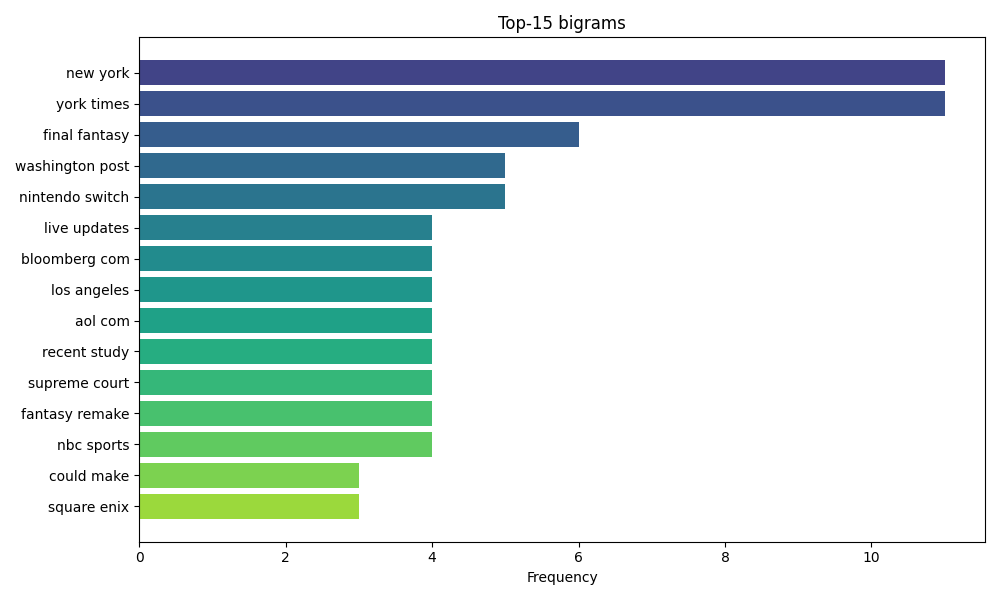
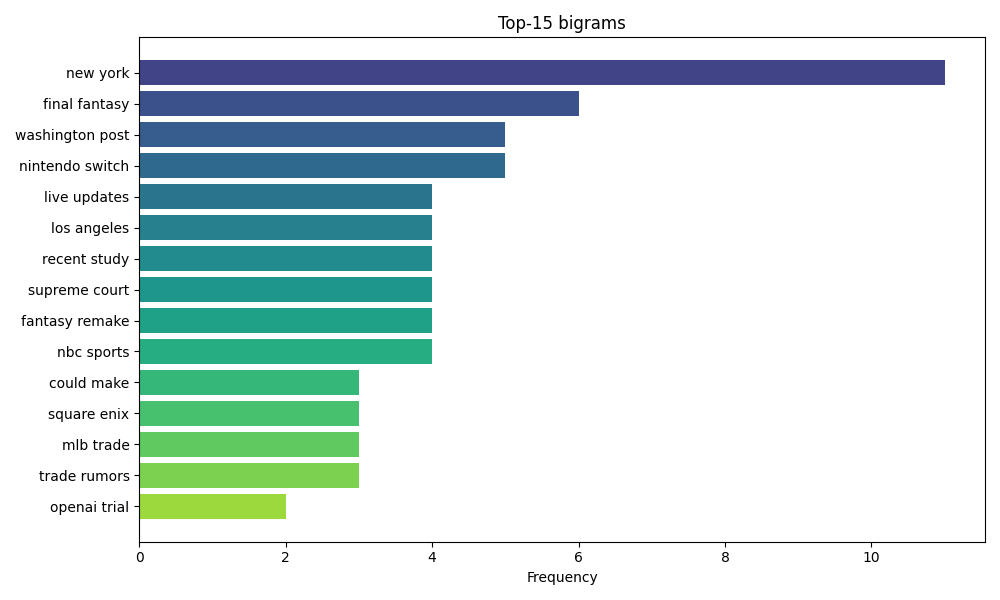
add unsupervised clustering

diff --git a/lab-4.py b/lab-4.py
@@ -2,6 +2,7 @@ import os
 import re
 import requests
 import json
+import math
 import spacy
 import numpy as np
 import matplotlib.pyplot as plt
@@ -9,10 +10,14 @@ from dotenv import load_dotenv
 from collections import Counter, defaultdict
 from nltk.tokenize import word_tokenize
 from nltk.corpus import stopwords
+from nltk.stem import WordNetLemmatizer
 from sklearn.feature_extraction.text import TfidfVectorizer
-from sklearn.cluster import KMeans
+from sklearn.cluster import KMeans, AgglomerativeClustering, DBSCAN
 from sklearn.metrics import silhouette_score, adjusted_rand_score, confusion_matrix
 from sklearn.metrics.pairwise import cosine_similarity
+from sklearn.decomposition import TruncatedSVD
+from sklearn.preprocessing import normalize
+from scipy.cluster.hierarchy import dendrogram, linkage
 
 SEP = "=" * 67
 
@@ -41,46 +46,65 @@ def main():
     print(f"\n{SEP}")
     print("level 1")
 
-    ctx = supervised_cluster(articles)
-    print(f"Silhouette score: {ctx["sil"]:.4f}")
-    print(f"Adjusted Rand Index: {ctx["ari"]:.4f}")
-    print(f"Mapping accuracy: {ctx["accuracy"]:.4f}")
+    sup_cl = supervised_cluster(articles)
+    print(f"Silhouette score: {sup_cl["silhouette"]:.4f}")
+    print(f"Adjusted Rand Index: {sup_cl["ARI"]:.4f}")
+    print(f"Mapping accuracy: {sup_cl["accuracy"]:.4f}")
 
     print("Per-class accuracy:")
     for i, dom in enumerate(DOMAIN_LABELS):
-        total = sum(1 for t in ctx["labels"] if t == i)
-        correct_i = sum(1 for p, t in zip(ctx["preds"], ctx["labels"]) if t==i and p==i)
+        total = sum(1 for t in sup_cl["labels"] if t == i)
+        correct_i = sum(1 for p, t in zip(sup_cl["preds"], sup_cl["labels"]) if t==i and p==i)
         pct = correct_i/total * 100 if total else 0
         bar = "=" * int(pct/10)
         print(f"{dom:<14} {pct:5.1f}% ({correct_i}/{total}) {bar}")
 
-    cm = confusion_matrix(ctx["labels"], ctx["preds"], labels=list(range(N_CLUSTERS)))
-    plot_confusion_matrix(cm, "./outputs/l4_cm.png")
+    cm = confusion_matrix(sup_cl["labels"], sup_cl["preds"], labels=list(range(N_CLUSTERS)))
+    plot_confusion_matrix(cm, "l4_cm.png")
 
     print("\nTop terms per cluster")
-    print(ctx["top_terms"])
+    print(sup_cl["top_terms"])
     
+
+
     print(f"\n{SEP}")
     print("level 2")
 
-    results = frequency_analysis(ctx)
+    freq = frequency_analysis(sup_cl)
     print("\nTF-IDF top terms:")
-    print(results["tfidf_by_category"])
+    print(freq["tfidf_by_category"])
 
-    plot_tfidf_bars(results["tfidf_by_category"], "./outputs/l4_tfidf.png")
+    plot_tfidf_bars(freq["tfidf_by_category"], "l4_tfidf.png")
 
-    for w, positions in results["dispersion_data"].items():
+    for w, positions in freq["dispersion_data"].items():
         print(f" {w:<10} - {len(positions):4d} positions")
 
-    plot_lexical_dispersion(results["dispersion_data"], results["top_terms"], len(ctx["article_items"]), "./outputs/l4_lexical_dispersion.png")
+    plot_lexical_dispersion(freq["dispersion_data"], freq["top_terms"], len(sup_cl["article_items"]), "l4_lexical_dispersion.png")
 
-    plot_word_length_dist(results["lengths"], "./outputs/l4_word_length_distribution.png")
+    plot_word_length_dist(freq["lengths"], "l4_word_length_distribution.png")
     
-    top_bigrams = results["bigrams"].most_common(20)
+    top_bigrams = freq["bigrams"].most_common(20)
     for bg, cnt in top_bigrams[:10]:
         print(f" {' '.join(bg):<28} {cnt:4d}")
 
-    plot_bigrams(top_bigrams, "./outputs/l4_bigrams.png")
+    plot_bigrams(top_bigrams, "l4_bigrams.png")
+
+
+    print(f"\n{SEP}")
+    print("level 3")
+
+    results = unsupervised_cluster(sup_cl)
+
+    print("KMeans")
+    print(f"Silhouette: {results["KMeans"]["silhouette"]:.4f}   ARI: {results["KMeans"]["ARI"]:.4f}")
+    
+    print("Agglomerative")
+    print(f"Silhouette: {results["Agglomerative"]["silhouette"]:.4f}   ARI: {results["Agglomerative"]["ARI"]:.4f}")
+
+    plot_dendrogram(results["Agglomerative"]["Z"], "l4_dendrogram.png")
+    
+    print("DBSCAN")
+    print(f"Silhouette: {results["DBSCAN"]["silhouette"]:.4f}   ARI: {results["DBSCAN"]["ARI"]:.4f}")
 
 
 def scrape_newsapi(api_key: str, per_category: int = 15):
@@ -173,9 +197,18 @@ def tokenize_text(text: str):
 
 
 STOP_WORDS = set(stopwords.words("english"))
+CUSTOM_STOP_WORDS = {"cnn", "char", "bbc", "news", "latest", "com", "new", "york", "times", "post"}
 
 def remove_stopwords(tokens):
-    return [t for t in tokens if t.isalpha() and t not in STOP_WORDS and len(t) > 2]
+    stop_words = STOP_WORDS.copy()
+    stop_words.update(CUSTOM_STOP_WORDS)
+    return [t for t in tokens if t.isalpha() and t not in stop_words and len(t) > 2]
+
+
+lemmatizer = WordNetLemmatizer()
+
+def lemmatize_text(tokens):
+    return [lemmatizer.lemmatize(t) for t in tokens]
 
 
 def preprocess(text: str):
@@ -183,7 +216,8 @@ def preprocess(text: str):
     text = normalize_text(text)
     tokens = tokenize_text(text)
     tokens = remove_stopwords(tokens)
-    return " ".join(tokens)
+    lemmas = lemmatize_text(tokens)
+    return " ".join(lemmas)
 
 
 def get_tokens(text: str):
@@ -270,8 +304,8 @@ def supervised_cluster(article_items: list[dict]):
             "texts_pp": texts_pp, 
             "texts_raw": text_raw, 
             "accuracy": acc, 
-            "sil": sil, 
-            "ari" : ari, 
+            "silhouette": sil, 
+            "ARI" : ari, 
             "top_terms": top_terms,
             "article_items": article_items}
 
@@ -319,7 +353,6 @@ def frequency_analysis(sup_cl):
             bigrams[(toks[i], toks[i+1])] += 1
     
 
-
     return {
         "tfidf_by_category": cat_tfidf_results,
         "dispersion_data" : disp_data,
@@ -330,14 +363,70 @@ def frequency_analysis(sup_cl):
     }
 
 
-def plot_confusion_matrix(cm, output_path):
+def unsupervised_cluster(sup_cl: dict):
+    X = sup_cl["X"]
+    y_true = sup_cl["labels"]
+    tfidf = sup_cl["tfidf"]
+    texts = sup_cl["texts_pp"]
+
+    km_u = KMeans(n_clusters=N_CLUSTERS, n_init=15, max_iter=500, random_state=RANDOM_STATE)
+    km_u.fit(X)
+    km_labels = km_u.labels_
+    sil_km = silhouette_score(X, km_labels, metric="cosine")
+    ari_km = adjusted_rand_score(y_true, km_labels)
+
+    fn = tfidf.get_feature_names_out()
+    km_cluster_terms = {}
+    for c in range(N_CLUSTERS):
+        order = km_u.cluster_centers_[c].argsort()[::-1][:6]
+        terms = [fn[i] for i in order]
+        km_cluster_terms[c] = terms
+
+
+    svd = TruncatedSVD(n_components=50, random_state=RANDOM_STATE)
+    X_r = svd.fit_transform(X)
+    X_rn = normalize(X_r)
+
+    agg = AgglomerativeClustering(n_clusters=N_CLUSTERS, linkage="ward")
+    agg_labels = agg.fit_predict(X_rn)
+    sil_agg = silhouette_score(X_rn, agg_labels)
+    ari_agg = adjusted_rand_score(y_true, agg_labels)
+
+    sample_idx = np.random.choice(len(texts), min(40, len(texts)), replace=False)
+    Z = linkage(X_rn[sample_idx], method="ward")
+
+
+    db = DBSCAN(eps=0.5, min_samples=2, metric="cosine")
+    db_labels = db.fit_predict(X_r)
+    n_clusters_db = len(set(db_labels)) - (1 if -1 in db_labels else 0)
+    n_noise = list(db_labels).count(-1)
+    if n_clusters_db > 1:
+        sil_db = silhouette_score(X_rn, db_labels)
+    else:
+        sil_db = float("nan")
+    
+    ari_db = adjusted_rand_score(y_true, db_labels)
+
+
+
+    results = {
+        "KMeans": {"silhouette": sil_km,  "ARI": ari_km, "km_cluster_terms": km_cluster_terms},
+        "Agglomerative": {"silhouette": sil_agg,  "ARI": ari_agg, "Z": Z},
+        "DBSCAN": {"silhouette": None if math.isnan(sil_db) else sil_db, "ARI": ari_db, "n_clusters": n_clusters_db, "n_noise": n_noise},
+    }
+
+    return results
+
+
+def plot_confusion_matrix(cm, filename):
+    output_path = os.path.join(OUTPUT_DIR, filename)
     fig, ax = plt.subplots(figsize=(7,6))
     im = ax.imshow(cm, cmap="Blues", interpolation="nearest")
     plt.colorbar(im, ax=ax)
 
     ax.set_xticks(range(N_CLUSTERS))
     ax.set_yticks(range(N_CLUSTERS))
-    ax.set_xticklabels(DOMAIN_LABELS, ha="right")
+    ax.set_xticklabels(DOMAIN_LABELS)
     ax.set_yticklabels(DOMAIN_LABELS)
 
     for i in range(N_CLUSTERS):
@@ -355,7 +444,8 @@ def plot_confusion_matrix(cm, output_path):
     print(f"{title} saved to: {output_path}")
 
 
-def plot_tfidf_bars(cat_results: dict, output_path):
+def plot_tfidf_bars(cat_results: dict, filename):
+    output_path = os.path.join(OUTPUT_DIR, filename)
     fig, axes = plt.subplots(1, len(cat_results), figsize=(4*len(cat_results), 5), sharey=False)
     
     if len(cat_results) == 1:
@@ -379,7 +469,8 @@ def plot_tfidf_bars(cat_results: dict, output_path):
     print(f"{title} saved to: {output_path}")
 
 
-def plot_lexical_dispersion(disp_data: dict, words: list, n_docs: int, output_path):
+def plot_lexical_dispersion(disp_data: dict, words: list, n_docs: int, filename):
+    output_path = os.path.join(OUTPUT_DIR, filename)
     fig, ax = plt.subplots(figsize=(12, 5))
 
     for idx, w in enumerate(words):
@@ -400,7 +491,8 @@ def plot_lexical_dispersion(disp_data: dict, words: list, n_docs: int, output_pa
     print(f"{title} saved to: {output_path}")
 
 
-def plot_word_length_dist(lengths: list, output_path):
+def plot_word_length_dist(lengths: list, filename):
+    output_path = os.path.join(OUTPUT_DIR, filename)
     fig, axes = plt.subplots(1, 2, figsize=(12, 5))
     lc = Counter(lengths)
     xs = sorted(lc.keys())
@@ -419,8 +511,7 @@ def plot_word_length_dist(lengths: list, output_path):
     axes[1].set_ylabel("PMF", fontsize=11)
     axes[1].set_title("Probability Mass Function")
   
-    title = "word_length_dist"
-    # fig.suptitle(title)
+    title = "Word length distibution"
     
     plt.tight_layout()
     plt.savefig(output_path)
@@ -428,7 +519,8 @@ def plot_word_length_dist(lengths: list, output_path):
     print(f"{title} saved to: {output_path}")
 
 
-def plot_bigrams(top_bigrams: list, output_path):
+def plot_bigrams(top_bigrams: list, filename):
+    output_path = os.path.join(OUTPUT_DIR, filename)
     labels = [" ".join(bg) for bg, _ in top_bigrams[:15]]
     counts = [c for _, c in top_bigrams[:15]]
     colors = plt.cm.viridis(np.linspace(0.2, 0.85, len(labels)))
@@ -439,6 +531,23 @@ def plot_bigrams(top_bigrams: list, output_path):
     
     title = "Top-15 bigrams"
     ax.set_title(title)
+    
+    plt.tight_layout()
+    plt.savefig(output_path)
+    plt.show()
+    print(f"{title} saved to: {output_path}")
+
+
+def plot_dendrogram(Z, filename):
+    output_path = os.path.join(OUTPUT_DIR, filename)
+
+    fig, ax = plt.subplots(figsize=(12, 5))
+    dendrogram(Z, ax=ax, leaf_rotation=90, leaf_font_size=7, color_threshold=0.7*max(Z[:,2]))
+
+    title = "Dendrogram (Agglomerative, Ward linkage)"
+    ax.set_title(title)
+    ax.set_xlabel("Документ (індекс)")
+    ax.set_ylabel("Відстань")
     
     plt.tight_layout()
     plt.savefig(output_path)
